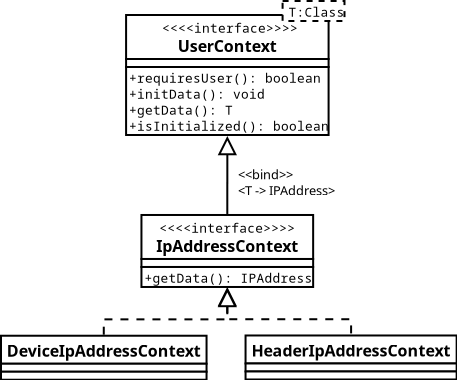
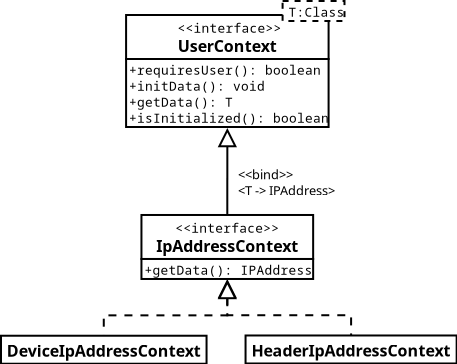
Update stereotypes for diagrams

Changed region(s): [[0.0, 0.4533, 1.0, 0.9973], [0.2757, 0.0, 0.7659, 0.4231]]

diff --git a/sections/5-design.tex b/sections/5-design.tex
@@ -623,9 +623,4 @@ Specific risk evaluators leveraging AI use for communication with the AI service
 
 \newpage
 
-\subsubsection{Queries}
-
-
-
-\newpage
 \section{External Integration}
